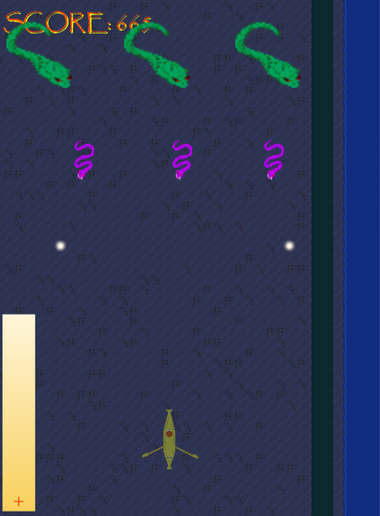
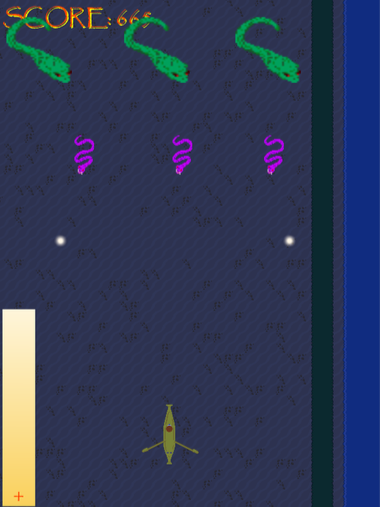
Final design changes to meet client requests

diff --git a/projects.html b/projects.html
@@ -44,26 +44,26 @@
                         <div id="C1" class="carousel">
                             <div class="slide">
                                 <p class="slide-num">1 / 4</p>
-                                <img src="./assets/images/toRaiseTheRays/Title_Day.png" alt="">
+                                <img src="./assets/images/toRaiseTheRays/ToRaiseTheRaysExample4.png" alt="Raise the Rays title screen">
                                 <p class="caption">Title screen day background</p>
                             </div>
                             <div class="slide">
                                 <p class="slide-num"> 2 / 4</p>
-                                <img src="./assets/images/toRaiseTheRays/Title_Night.png" alt="">
-                                <p class="caption">Title screen night background</p>
-                            </div>
-                            <div class="slide">
-                                <p class="slide-num"> 3 / 4</p>
                                 <img src="./assets/images/toRaiseTheRays/ToRaiseTheRaysExample1.png" alt="Standard gameplay screenshot">
                                 <p class="caption">Snapshot of standard gameplay</p>
                             </div>
                             <div class="slide">
-                                <p class="slide-num"> 4 / 4</p>
-                                <img src="./assets/images/toRaiseTheRays/ToRaiseTheRaysExample2.png" alt="Gameplay screenshot of boss fight">
-                                <p class="caption">Snapshot of gameplay during the main boss fight</p>
+                                <p class="slide-num"> 3 / 4</p>
+                                <img src="./assets/images/toRaiseTheRays/ToRaiseTheRaysExample2.png" alt="Boss fight gameplay screenshot">
+                                <p class="caption">Snapshot of boss fight gameplay</p>
                             </div>
-                            <a class="prev" role="button" onclick="nextSlide(-1, 1)">&#10094</a>
-                            <a class="next" role="button" onclick="nextSlide(1, 1)">&#10095</a>
+                            <div class="slide">
+                                <p class="slide-num"> 4 / 4</p>
+                                <img src="./assets/images/toRaiseTheRays/Title_Night.png" alt="Raise the Rays nighttime background">
+                                <p class="caption">Title screen night background</p>
+                            </div>
+                            <a class="prev" role="button" onclick="nextSlide(-1, 0)">&#10094</a>
+                            <a class="next" role="button" onclick="nextSlide(1, 0)">&#10095</a>
                         </div>
                     </div>
                     <div class="links">
@@ -100,8 +100,8 @@
                                 <img src="./assets/images/FragNewHeights/PrintAndPlay.png" alt="Print and play files">
                                 <p class="caption">The additional print and play files included in the game expansion</p>
                             </div>
-                            <a class="prev" role="button" onclick="nextSlide(-1, 0)">&#10094</a>
-                            <a class="next" role="button" onclick="nextSlide(1, 0)">&#10095</a>
+                            <a class="prev" role="button" onclick="nextSlide(-1, 1)">&#10094</a>
+                            <a class="next" role="button" onclick="nextSlide(1, 1)">&#10095</a>
                         </div>
                     </div>
                     <div class="links">

diff --git a/css/project-box.css b/css/project-box.css
@@ -52,7 +52,7 @@
     padding: 10px;
     font-size: 14px;
     color: white;
-    background-color: rgb(0, 0, 0, 0.2);
+    background-color: rgb(0, 0, 0, 0.4);
     border-radius: 5px;
 }
 
@@ -64,13 +64,13 @@
     width: auto;
     font-weight: bold;
     color: white;
-    background-color: rgb(0, 0, 0, 0.2);
+    background-color: rgb(0, 0, 0, 0.4);
     border-radius: 5px;
     transition: 0.3s ease;
     user-select: none;
 }
     .prev:hover, .next:hover {
-        background-color: rgba(0, 0, 0, 0.5);
+        background-color: rgba(0, 0, 0, 0.6);
     }
 
 .prev {
@@ -86,6 +86,7 @@
 }
 
 @media (max-width: 770px) {
+    h2 { font-size: 30px; }
     .project { flex-direction: column; }
 }
 

diff --git a/css/styles.css b/css/styles.css
@@ -191,9 +191,11 @@ a {
         color: white;
     }
 
+/** Alters the appearance of elements for a mobile view */
 @media (max-width: 770px) {
-    h1 { font-size: 40px; }
-    h2 { font-size: 32px; }
+    h1 { font-size: 36px; }
+    h2 { font-size: 30px; }
+    .smaller-h2 { font-size: 22px; }
     .sub-container { flex-direction: column;  gap: 1em; }
     .d-flex-row { flex-direction: column; align-items: center; }
     .links { justify-content: center; margin-top: 25px; }

diff --git a/web-components/nav-bar/nav-bar.css b/web-components/nav-bar/nav-bar.css
@@ -35,7 +35,7 @@
         text-underline-offset: 6px;
     }
     .nav-link.active {
-        color: rgb(200, 0, 0) !important;
+        color: rgb(230, 0, 0) !important;
     }
 
 /** Styles the portfolio's title name in the nav-bar */

diff --git a/css/feature-box.css b/css/feature-box.css
@@ -56,4 +56,5 @@ h3 {
     .feature { width: 275px; }
     .feature p { font-size: 14px; }
     .content { height: 150px; }
+    h3 { font-size: 22px; }
 }
